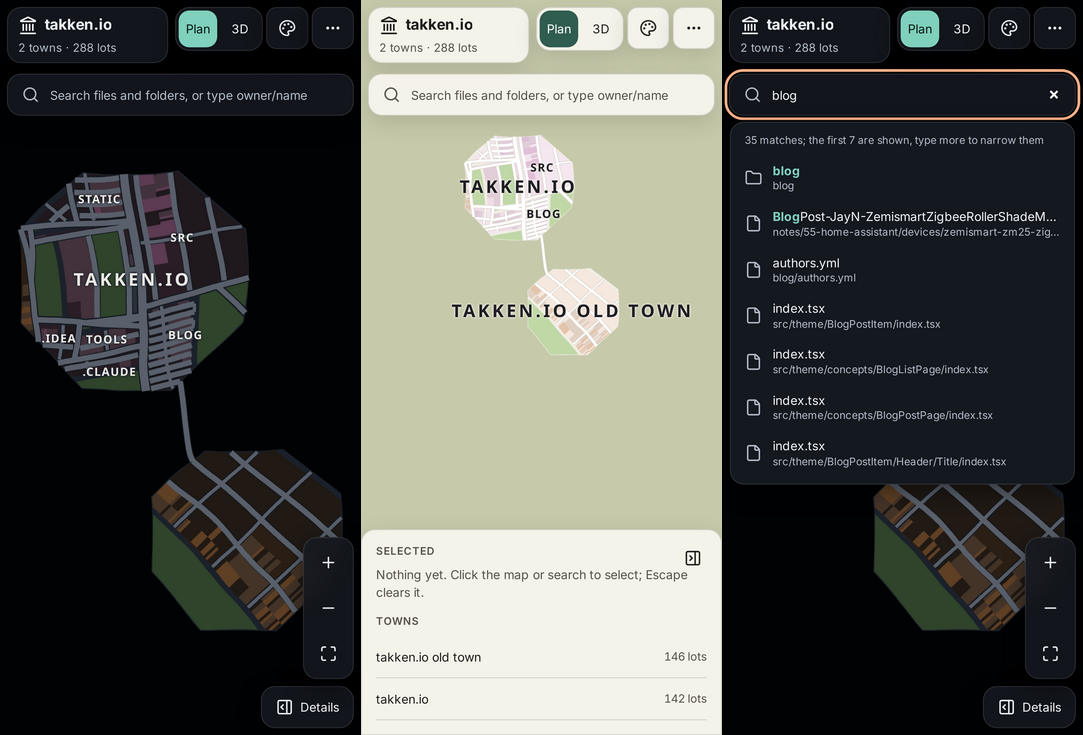
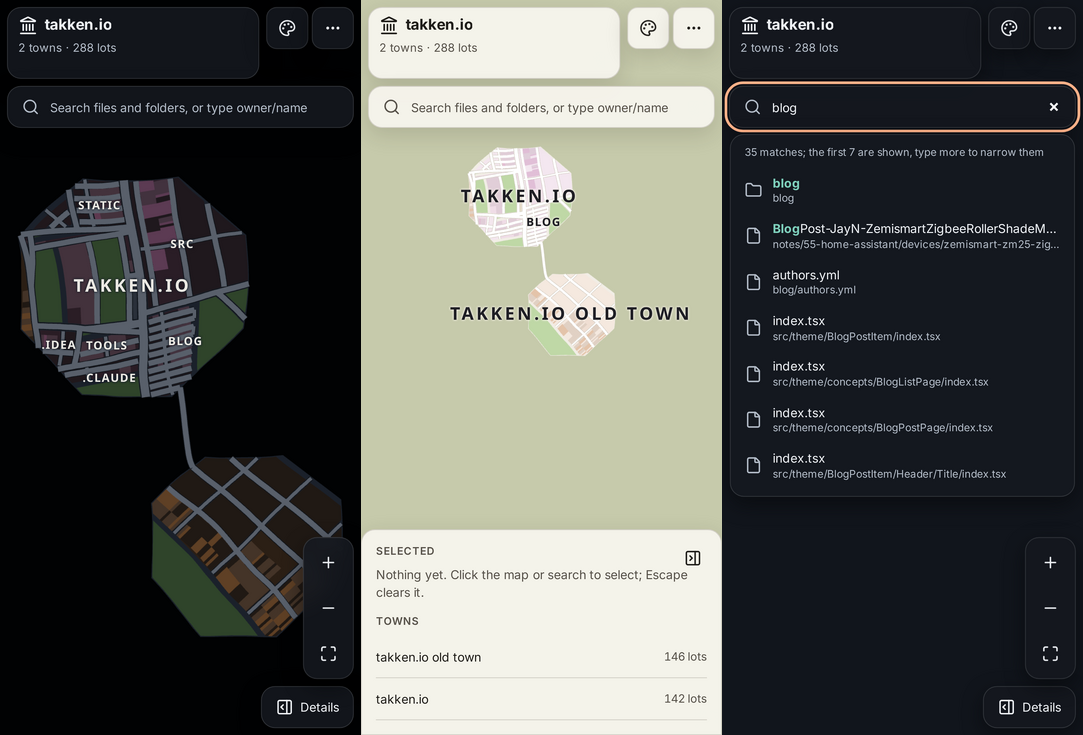
Picture the viewer without the view switch

diff --git a/README.md b/README.md
@@ -80,10 +80,10 @@ keeps the name to your own screen.
   ![react in five themes](docs/img/themes.png)
 
 - **A viewer.** The map fills the page and every control floats over it, light or dark as your system prefers. Search
-  for any file or folder and the map flies to it; pan, zoom, hover to name anything, click to select, and drill into one
-  town. Press `/` to search from anywhere.
+  for any file or folder and the map flies to it; pan, zoom, hover over anything to learn what it is and what it means,
+  click to select it, copy its path or open it on GitHub, and drill into one town. Press `/` to search from anywhere.
 
-  ![The viewer over livediagram: searching for "palette" in light, and arriving there in dark](docs/img/viewer.png)
+  ![The viewer over livediagram: searching for "palette" in light, and in dark a hover card saying what a file is](docs/img/viewer.png)
 
   On a phone the details fold into a sheet:
 

diff --git a/plans/0008-readable-map.md b/plans/0008-readable-map.md
@@ -17,7 +17,7 @@ Plan view only, hover cards that say what things are and never cut their text, a
 
 - [x] Remove the view switch from the viewer (tests first: no "3D" control; the map stays plan); keep `basis` and `fit`
       for plan; drop the dimetric camera from the web app where nothing else uses it
-- [ ] End-to-end and vitals journeys without the switch; README and spec pictures without "3D"
+- [x] End-to-end and vitals journeys without the switch; README and spec pictures without "3D"
 
 ## Phase 3: what a hit knows
 
